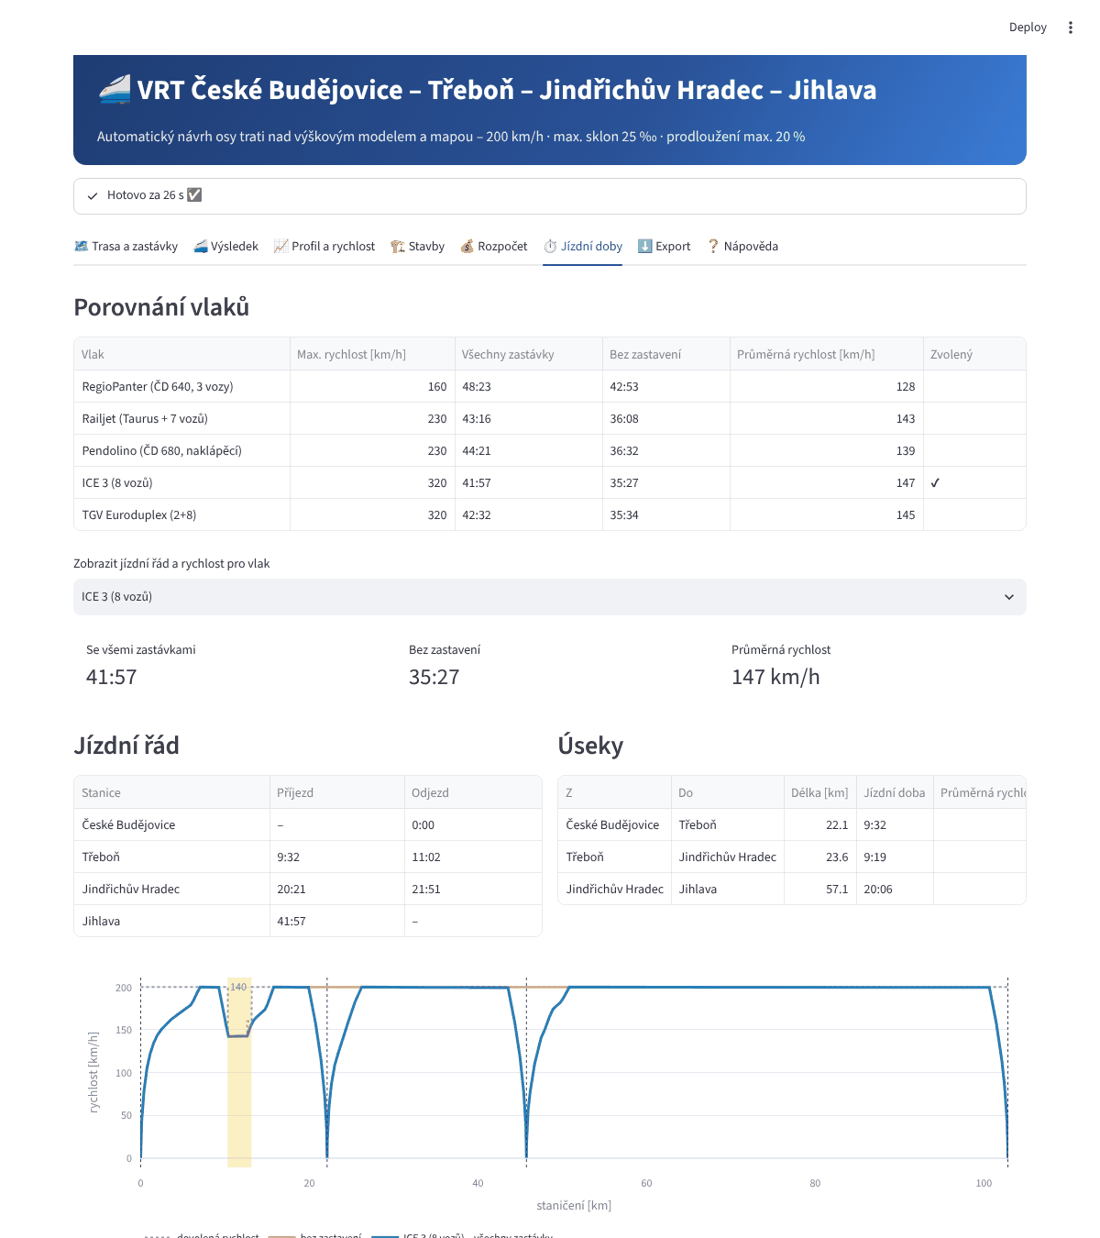
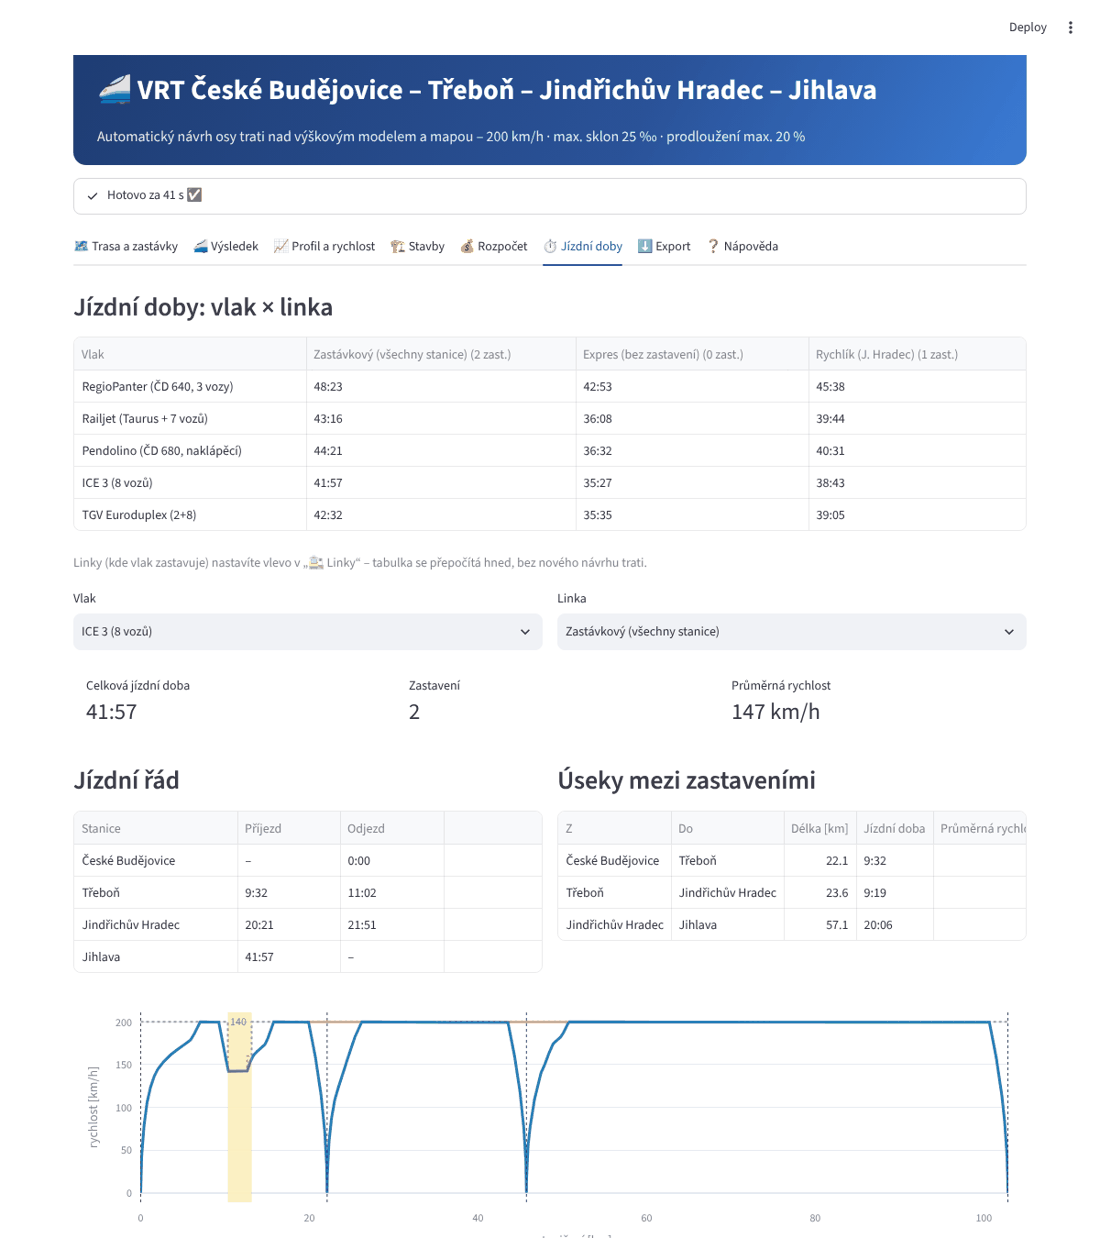
Přitahování k souběhu volitelné (výchozí vypnuto), nové screenshoty
Sleva za souběh se počítá vždy přesně na výsledné ose; zvýhodnění v rastru
50 m souběh nezaručí a trasu zhoršovalo (porovnání ČB – Jihlava), proto je volitelné.

Claude-Session: https://claude.ai/code/session_01BGiEqKSGbFSSVRWMYkYqk4

diff --git a/app.py b/app.py
@@ -235,6 +235,9 @@ with st.sidebar:
         w(sb, "silnice_vzdalenost_m", "Silnice: osa do [m] od okraje vozovky", min_value=0.0, max_value=100.0,
           step=1.0, help="Dálnice, silnice pro motorová vozidla a silnice I. třídy.")
         w(sb, "silnice_sleva_pct", "Silnice: sleva [%]", min_value=0.0, max_value=100.0, step=5.0)
+        w(sb, "pritahovat", "Přitahovat trasu k souběhu už při hledání koridoru", "check",
+          help="Sleva na výsledné ose platí vždy. Přitahování v rastru 50 m nezaručí přesný souběh (±4 m) "
+               "a trasu se zvýhodněním vedenou podél silnic a tratí přes obce může i zhoršit – zkuste porovnat.")
 
     with st.expander("🚉 Linky – kde vlaky zastavují"):
         stanice_nazvy = [b.nazev for b in P.body if b.je_stanice]

diff --git a/planovac/config.py b/planovac/config.py
@@ -134,6 +134,8 @@ class Soubeh:
     silnice_vzdalenost_m: float = 10.0     # osa do 10 m od okraje vozovky
     silnice_sleva_pct: float = 25.0
     silnice_tridy: str = "motorway,trunk,primary"  # dálnice, silnice pro motorová vozidla, I. třída
+    pritahovat: bool = False               # zvýhodnit souběh už v nákladové mapě (rastr ±4 m nezaručí;
+    #                                        může trasu i zhoršit) – sleva na výsledné ose platí vždy
 
 
 # poloviční šířka vozovky [m] podle třídy OSM (dálnice: jeden směrový pás bývá v OSM samostatná linie)

diff --git a/planovac/costsurface.py b/planovac/costsurface.py
@@ -114,7 +114,7 @@ def build_cost_surface(
     )
     # souběh se stávající tratí (bez penalizací, sleva) a se silnicí (sleva)
     soubeh_f = np.ones(grid.shape)
-    if soubeh is not None and soubeh.povolit:
+    if soubeh is not None and soubeh.povolit and soubeh.pritahovat:
         from .soubeh import faktor_rastr
 
         soubeh_f, rail = faktor_rastr(grid, osm, soubeh, navrh.min_polomer())

diff --git a/docs/ALGORITMUS.md b/docs/ALGORITMUS.md
@@ -73,7 +73,8 @@ ve stanicích srovná do vodorovné a znovu se vynutí max. sklon.
 - **Křížení**: průsečíky osy se silnicemi, železnicemi a řekami; v tunelu nebo pod estakádou bez nového objektu.
 
 ## 7a. Souběh se stávající tratí a silnicemi (`soubeh.py`)
-- Nákladová mapa: buňky se stávající kolejí mají cenu ×0,5 a žádné penalizace (zástavba, budovy, chráněná území);
+- Volitelně (*Přitahovat trasu k souběhu*, výchozí vypnuto) nákladová mapa: buňky se sledovatelnou
+  (dost přímou, R ≥ R_min) stávající kolejí mají cenu ×0,5 a žádné penalizace (zástavba, budovy, chráněná území);
   buňky v pásu silnice (osa ± poloviční šířka vozovky + 10 m; dálnice/silnice pro motorová vozidla 6 m, I. třída
   4 m) ×0,75.
 - Rastr 50 m přesnost ±4 m nezachytí, proto se vrcholy koridoru do 1,5 buňky od koleje posunou přesně na kolej.

diff --git a/docs/NAVOD.md b/docs/NAVOD.md
@@ -51,6 +51,9 @@ cenové úrovni ČR ~2025.
   vede nová osa přesně po ní.
 - Kde osa vede **do 10 m od okraje dálnice, silnice pro motorová vozidla nebo silnice I. třídy**, je stavba
   **o 25 % levnější** (společný koridor).
+- Sleva se počítá vždy přesně na výsledné ose a ovlivňuje i výškové řešení. Volba *Přitahovat trasu k souběhu*
+  zvýhodní stávající přímé tratě a silnice už při hledání koridoru – rastr 50 m ale přesný souběh nezaručí, proto je
+  ve výchozím stavu vypnutá (vyplatí se porovnat obě varianty).
 - Všechny hodnoty jsou nastavitelné. V mapě je souběh zeleně (trať) a tmavě šedě (silnice), sleva je v rozpočtu
   jako samostatná položka a na kartě *🏗 Stavby* je seznam úseků souběhu.
 
